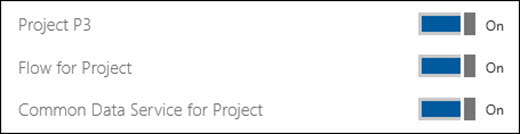
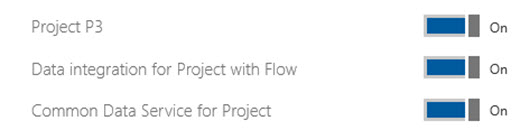
Updated image and service plan name.

Changed region(s): [[0.0, 0.0, 1.0, 1.0]]

diff --git a/ProjectOnline/Turn-Roadmap-on-or-off.md b/ProjectOnline/Turn-Roadmap-on-or-off.md
@@ -86,7 +86,7 @@ Roadmap requires [Common Data Service for Apps](https://powerapps.microsoft.com/
 
 Your Office 365 tenant needs to have a **Project Online Professional** or **Project Online Premium** license in order to use the Roadmap feature.  The Project Online settings in the Microsoft 365 Admin Center will not be available if your Office 365 tenant does not have at least one of these licenses.
 
-The **Project Online Professional** or **Project Online Premium** license assigned to a user will provide three service plans that will allow the user to use the Roadmap feature. The **Project P3**, **Flow for Project**, and **Common Data Service for Project** service plans directly support the infrastructure of running Roadmap.  All three must be turned on for Roadmap to work for the user. 
+The **Project Online Professional** or **Project Online Premium** license assigned to a user will provide three service plans that will allow the user to use the Roadmap feature. The **Project P3**, **Data integration for Project with Flow**, and **Common Data Service for Project** service plans directly support the infrastructure of running Roadmap.  All three must be turned on for Roadmap to work for the user. 
 
 ![Roadmap not available](media/PJOModProjServicePlans.jpg)
 ## Related Topics
